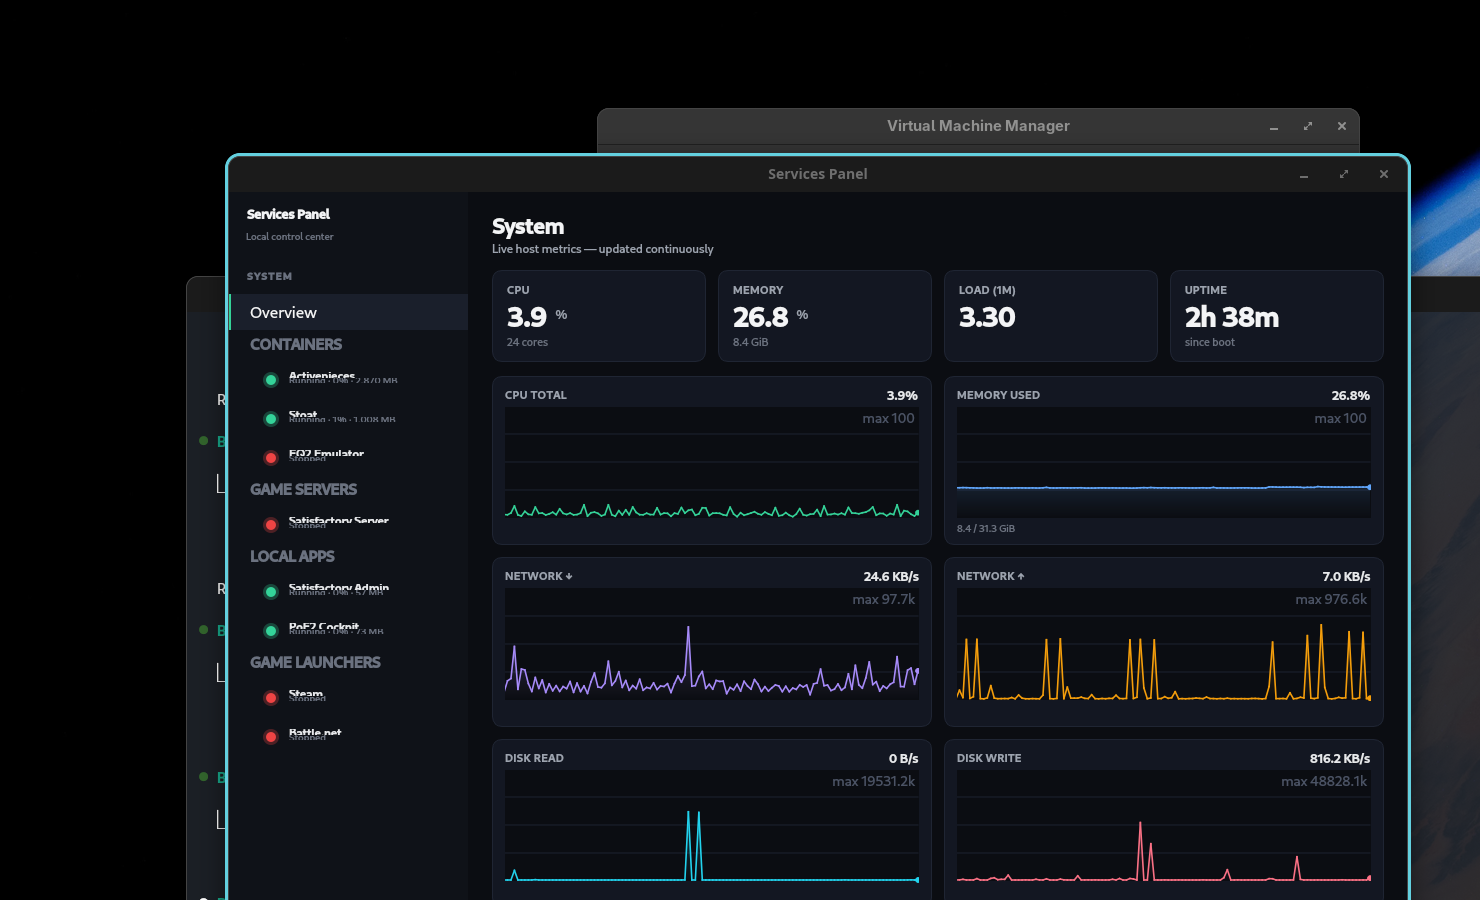
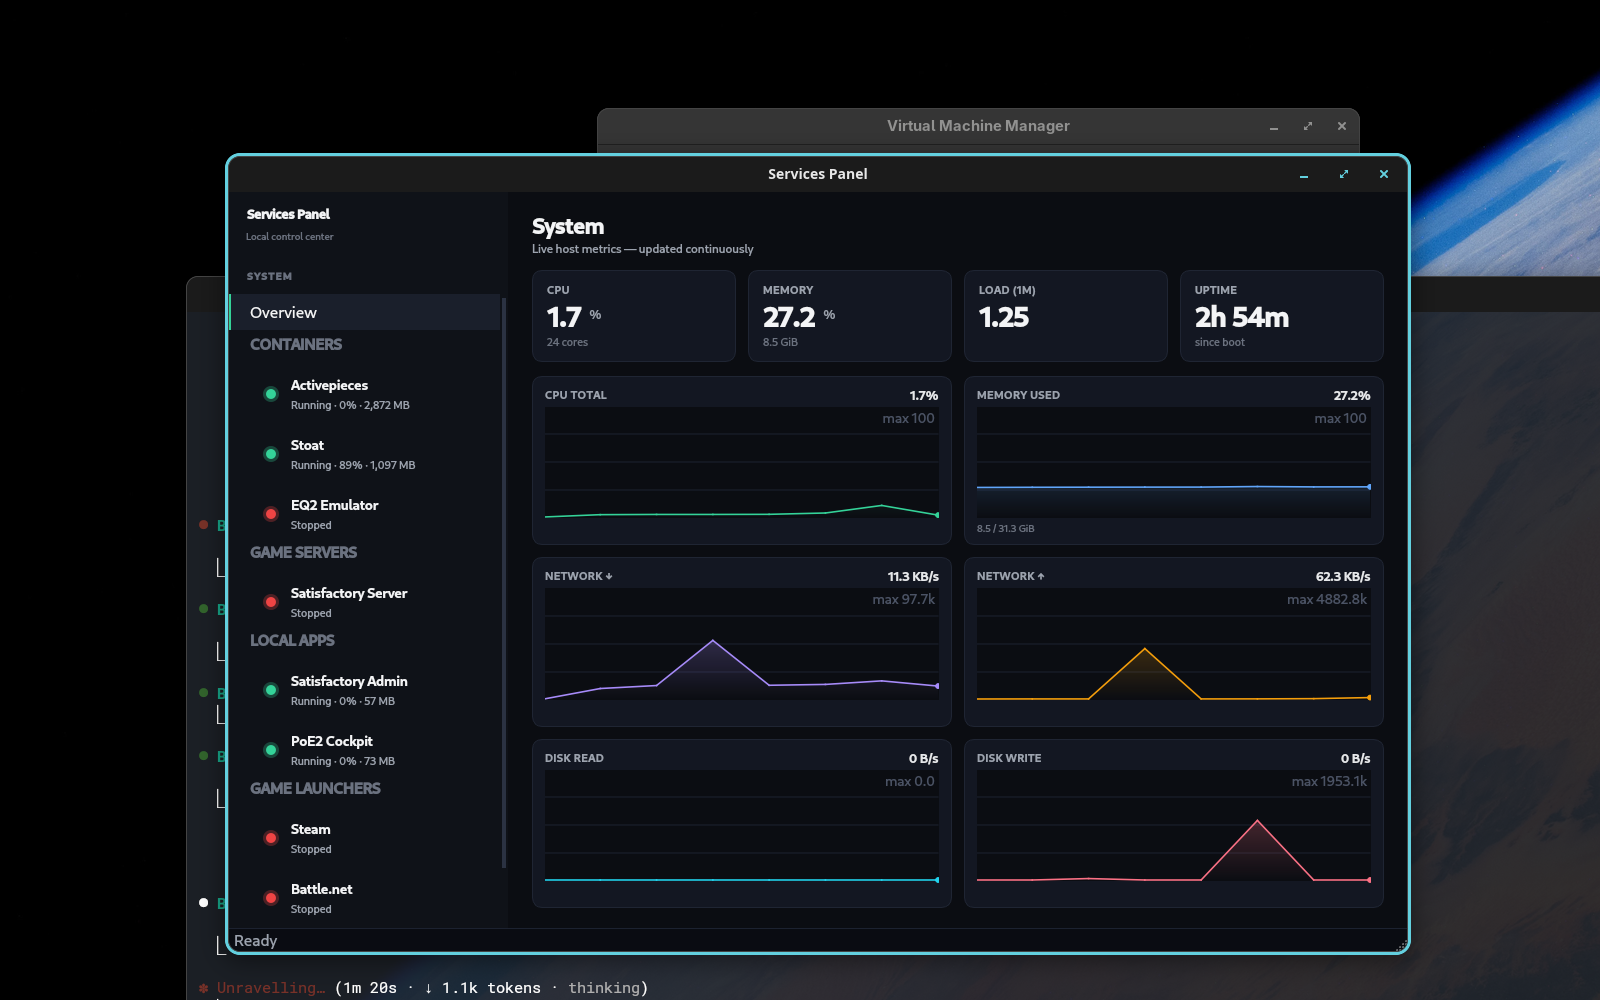
Fix sidebar legibility: wider sidebar, taller rows, larger fonts
The service rows in the sidebar had crammed names overlapping with the
status subtitle. Fixed by widening the sidebar to 280px, forcing a
60px row height (sizeHint pre-layout was unreliable), and bumping fonts
to 14px/11px with 3px spacing between name and subtitle.

diff --git a/main.py b/main.py
@@ -662,7 +662,7 @@ class MainWindow(QtWidgets.QMainWindow):
 
         # Sidebar
         side_container = QtWidgets.QWidget()
-        side_container.setFixedWidth(240)
+        side_container.setFixedWidth(280)
         side_container.setStyleSheet("background: #0f1218;")
         side_layout = QtWidgets.QVBoxLayout(side_container)
         side_layout.setContentsMargins(0, 0, 0, 0)
@@ -720,7 +720,8 @@ class MainWindow(QtWidgets.QMainWindow):
             for svc in items:
                 row_widget = self._make_sidebar_row(svc)
                 row_item = QtWidgets.QListWidgetItem()
-                row_item.setSizeHint(row_widget.sizeHint())
+                # Force a tall enough row — sizeHint() before layout is unreliable.
+                row_item.setSizeHint(QtCore.QSize(260, 60))
                 row_item.setData(QtCore.Qt.ItemDataRole.UserRole, svc.key)
                 self.sidebar.addItem(row_item)
                 self.sidebar.setItemWidget(row_item, row_widget)
@@ -739,19 +740,26 @@ class MainWindow(QtWidgets.QMainWindow):
 
     def _make_sidebar_row(self, svc: Service) -> QtWidgets.QWidget:
         w = QtWidgets.QWidget()
+        w.setMinimumHeight(56)
         h = QtWidgets.QHBoxLayout(w)
-        h.setContentsMargins(16, 6, 16, 6)
-        h.setSpacing(10)
+        h.setContentsMargins(16, 10, 16, 10)
+        h.setSpacing(12)
         dot = StatusDot(diameter=10)
         dot.setObjectName(f"sidebarDot_{svc.key}")
-        h.addWidget(dot)
+        h.addWidget(dot, 0, QtCore.Qt.AlignmentFlag.AlignVCenter)
+
         col = QtWidgets.QVBoxLayout()
-        col.setSpacing(0)
+        col.setSpacing(3)
+        col.setContentsMargins(0, 0, 0, 0)
         name = QtWidgets.QLabel(svc.label)
-        name.setStyleSheet("color:#e6e8eb; font-size: 12px; font-weight: 600;")
+        name.setStyleSheet("color:#f3f4f6; font-size: 14px; font-weight: 600; background: transparent;")
+        name.setMinimumHeight(18)
         sub = QtWidgets.QLabel("…")
-        sub.setStyleSheet("color:#6b7280; font-size: 10px;")
+        sub.setStyleSheet("color:#9ca3af; font-size: 11px; background: transparent;")
         sub.setObjectName(f"sidebarSub_{svc.key}")
+        sub.setMinimumHeight(14)
+        # Elide overly long subtitle text instead of squishing the row.
+        sub.setTextFormat(QtCore.Qt.TextFormat.PlainText)
         col.addWidget(name)
         col.addWidget(sub)
         h.addLayout(col, 1)
